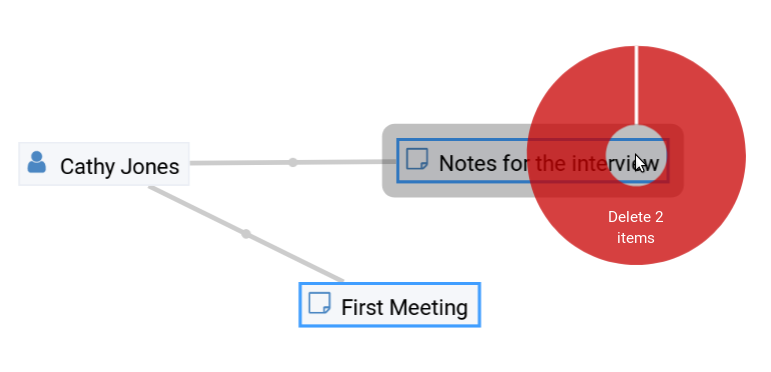
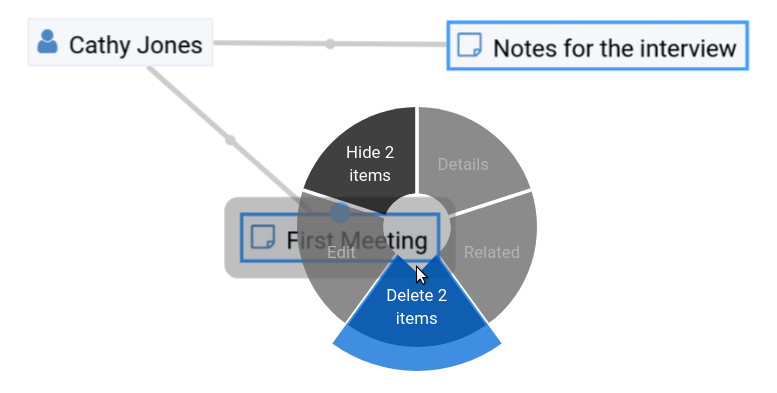
Removed instructions for versions before beta-7

diff --git a/docs/user.rst b/docs/user.rst
@@ -528,17 +528,9 @@ Deleting things
 
 .. warning:: There is an important difference between hiding items and deleting them. **If you delete items they are removed from the database forever.** If you hide them, they are just no longer visible on the Topicmap but you can bring them back by revealing them.
 
-You delete things via the context menu on the Topicmap.
-
-Until DMX 5.0-beta-7 keep the *Alt* key pressed and left-click onto the item you want to delete.
-To delete drag your mouse anywhere into the red area.
-To abort let go of both the "Alt" key and the mouse button while the cursor is in the middle of the circle.
+You delete things via the "Delete" command in the context menu.
 
 .. image:: _static/delete-item.png
-
-As of DMX 5.0 the "Delete" command is integrated directly into the context menu.
-
-.. image:: _static/delete-item-new.png
 
 When you select "Delete" a dialog window opens.
 It informs you about the number of items you are about to delete.
@@ -558,13 +550,7 @@ To delete several items in one go select all of them by clicking them with the C
 Then proceed as above:
 Left- or right-click onto the item and drag your mouse onto the *Delete* command.
 
-.. figure:: _static/bulk-delete-2.png
-    :alt: Bulk deletion until DMX 5.0-beta-7
-
-
-.. figure:: _static/bulk-delete-2-new.png
-    :alt: Bulk deletion as of DMX 5.0
-
+.. image:: _static/bulk-delete-2.png
 
 When you select *Delete* a confirmation dialog window opens to inform you about the number of items you are about to delete.
 You can confirm or cancel the deletion.
@@ -1122,7 +1108,7 @@ Here is how creating a shared Workspace works:
 Moving objects to a different Workspace
 =======================================
 
-As of DMX version 5.0-beta-7 it is possible to assign existing objects to a different Workspace.
+It is possible to assign existing objects to a different Workspace.
 For this, you must have write permission on both the selected object and the target Workspace.
 
 An example use case: You have a contact, a "Person" object, in your private Workspace that you want to share with some other user.
